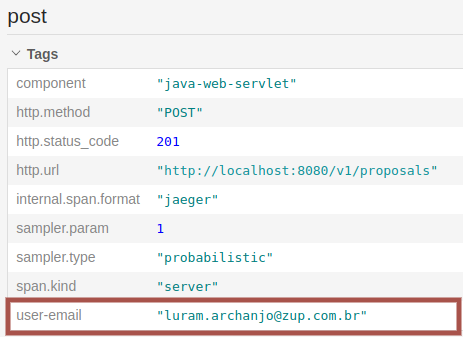
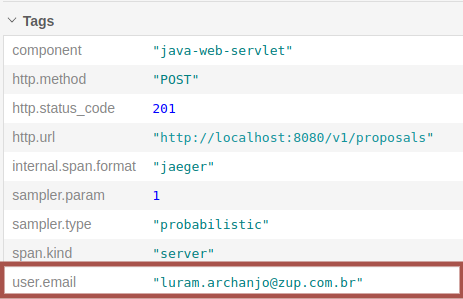
Jaeger - Tags

diff --git a/informacao_suporte/jaeger-concept-tags.md b/informacao_suporte/jaeger-concept-tags.md
@@ -41,7 +41,7 @@ Span activeSpan = tracer.activeSpan();
 3º Precisamos definir as tags desejadas, para isso o objetivo Span tem o método `setTag`, conforme código abaixo:
 
 ```java
-activeSpan.setTag("user-email", "luram.archanjo@zup.com.br");
+activeSpan.setTag("user.email", "luram.archanjo@zup.com.br");
 ```
 
 Demais né! Vamos testar?
@@ -56,8 +56,10 @@ abaixo:
 
 ![alt text](../images/open-tracing-006.png "OpenTracing")
 
+Demais né! Agora podemos utilizar várias tags para melhorar nosso processo de troubleshooting, como por exemplo, filtrar 
+por todas as operações que o `luram.archanjo@zup.com.br` fez, conforme imagem abaixo:
 
-Demais né! Agora podemos utilizar várias tags para melhorar nosso processo de troubleshooting!
+![alt text](../images/open-tracing-007.png "OpenTracing")
 
 # Dicas de Luram Archanjo
 
